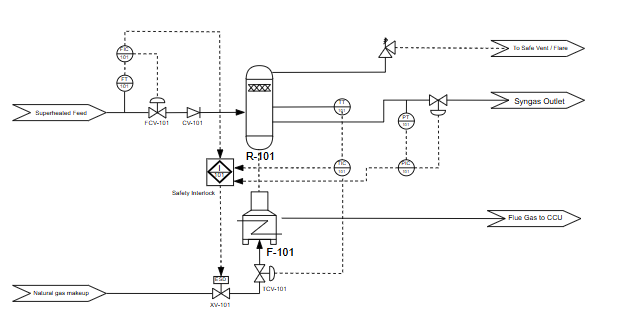
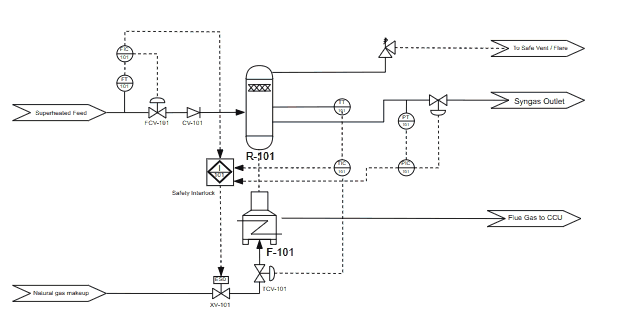
Optimize images
Claude-Session: https://claude.ai/code/session_01D8Wn5LsKXeCoGvygtqwGJL

diff --git a/index.html b/index.html
@@ -221,7 +221,7 @@ footer .love{font-family:Mitr;font-size:28px;color:var(--pink);margin-bottom:12p
   <h2>กดเลขบนแบบเพื่อดูแต่ละจุด</h2>
   <p class="lead">ใช้ปุ่มก่อนหน้า/ถัดไป หรือกดลูกศร ← → บนคีย์บอร์ดก็ได้</p>
   <div class="pidbox">
-    <div class="sheet"><div class="canvas" id="r101"><img src="assets/r101-pid@2x.png" alt="P&ID R-101 Reformer และ F-101" width="1240" height="662"></div>
+    <div class="sheet"><div class="canvas" id="r101"><img src="assets/r101-pid.png" alt="P&ID R-101 Reformer และ F-101" width="620" height="331" style="image-rendering:auto"></div>
       <div class="cap"><span>P&amp;ID check.png · R-101 / F-101</span><span>620×331 px (ภาพต้นฉบับความละเอียดต่ำ)</span></div></div>
     <aside class="detail" id="r101-detail" aria-live="polite"></aside>
   </div>
